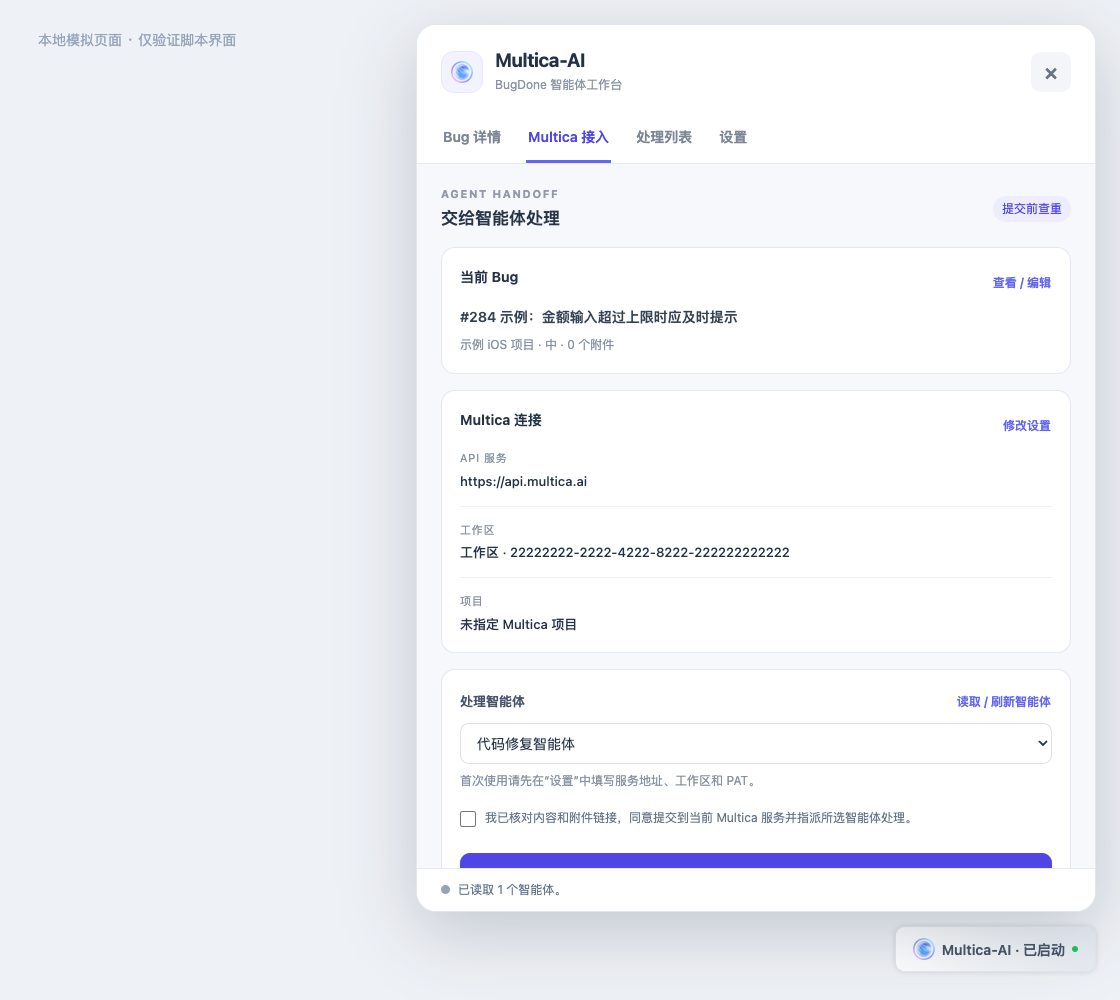
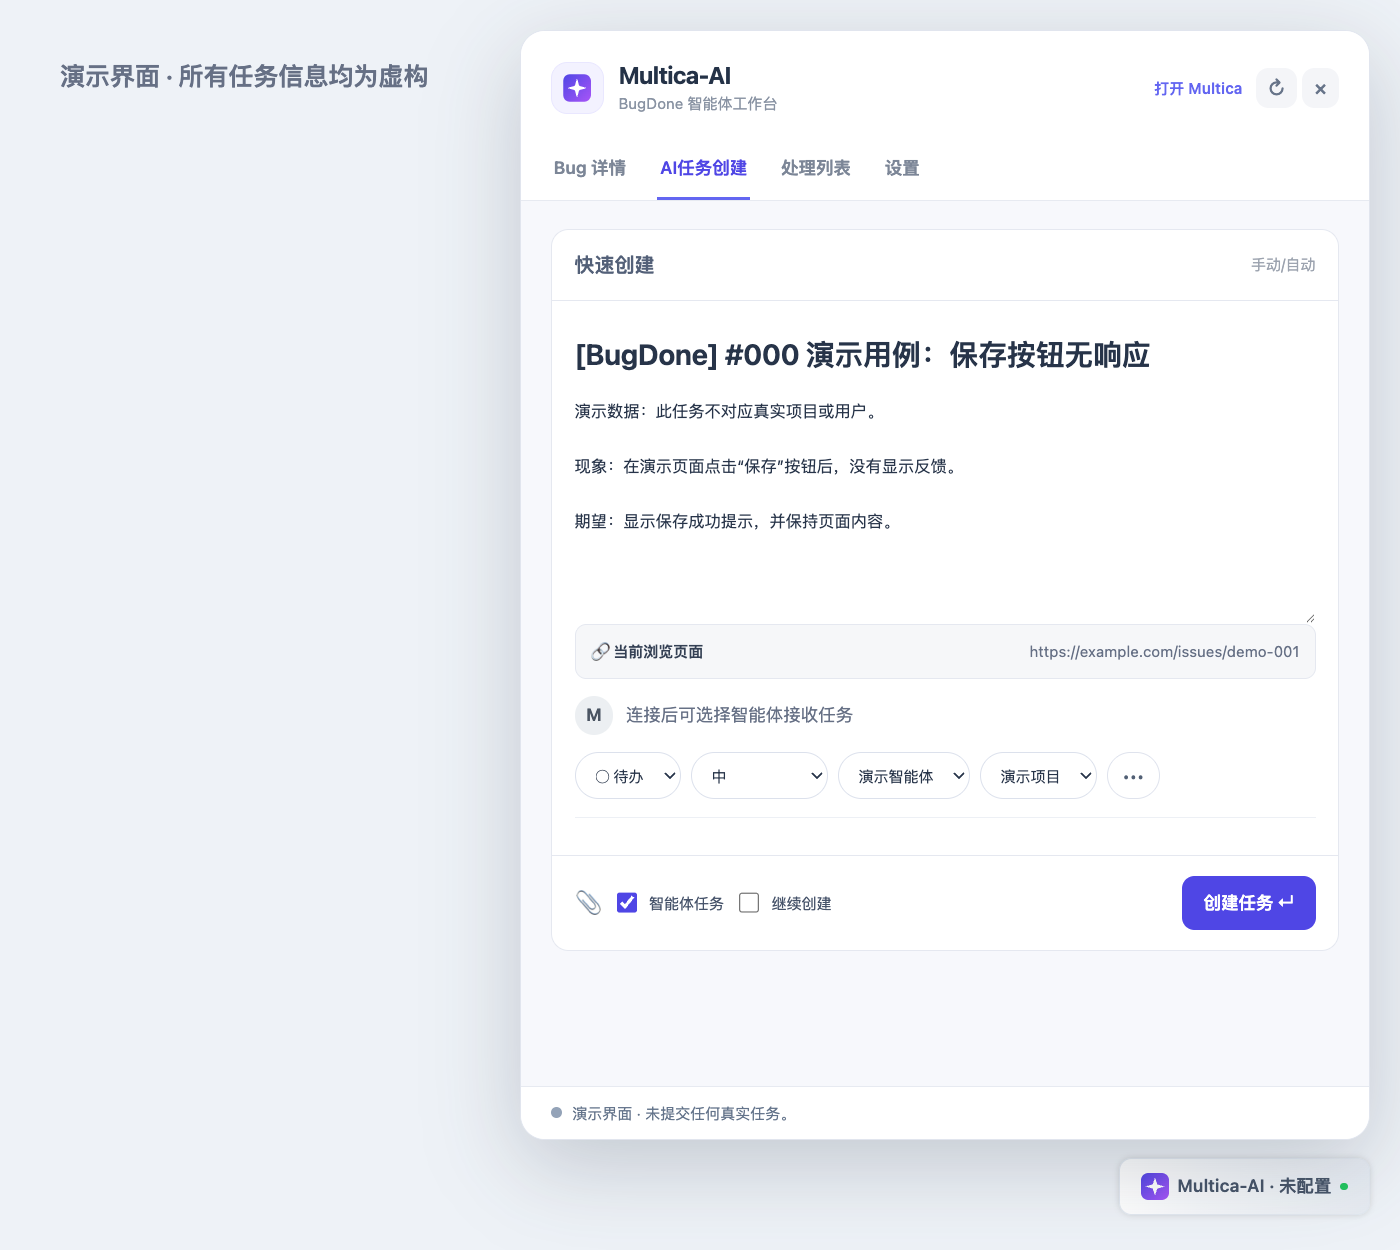
feat: show Multica task status and refresh demo preview

diff --git a/bugdone-multica.user.js b/bugdone-multica.user.js
@@ -1,7 +1,7 @@
 // ==UserScript==
 // @name         BugDone 接入 Multica
 // @namespace    local.bugdone.multica
-// @version      1.0.0
+// @version      1.0.1
 // @description  BugDone桥接Multica智能体
 // @updateURL    https://raw.githubusercontent.com/bosong/bugdone-multica-bridge/main/bugdone-multica.user.js
 // @downloadURL  https://raw.githubusercontent.com/bosong/bugdone-multica-bridge/main/bugdone-multica.user.js
@@ -161,6 +161,38 @@
     }
     throw Error('搜索结果过多，无法确认是否重复；请人工核对');
   }
+  async function lookupSubmittedIssue(api, item) {
+    if (item.issueId) {
+      const r = await api('GET', `/api/issues/${encodeURIComponent(item.issueId)}`);
+      if (r.status === 200) {
+        if (!r.data?.id || r.data.id !== item.issueId) throw Error('任务响应 ID 不匹配');
+        if (item.api || owns(r.data, item.bugId)) return r.data;
+      } else if (r.status !== 404) throw Error(`任务状态查询失败（HTTP ${r.status}）`);
+    }
+    return item.bugId ? findExisting(api, item.bugId) : null;
+  }
+  function issueStatusLabel(status) {
+    const labels = { backlog: '待整理', todo: '待办', in_progress: '进行中', in_review: '待审核', done: '已完成', blocked: '已阻塞' };
+    const value = typeof status === 'string' ? status : status?.name;
+    return labels[value] || value || '未知';
+  }
+  async function loadSubmittedStatuses(items, c, api, report) {
+    let next = 0;
+    const worker = async () => {
+      while (next < items.length) {
+        const item = items[next++];
+        if (item.workspace !== c.workspace || (item.api && item.api !== c.api)) {
+          report(item, { kind: 'unavailable' });
+          continue;
+        }
+        try {
+          const issue = await lookupSubmittedIssue(api, item);
+          report(item, issue ? { kind: 'ready', status: issue.status, issue } : { kind: 'missing' });
+        } catch (error) { report(item, { kind: 'error', error }); }
+      }
+    };
+    await Promise.all(Array.from({ length: Math.min(4, items.length) }, worker));
+  }
   async function submitOnce({ c, bug, body, api, get, set, prepareBody }) {
     const key = cacheKey(c, bug.BugId);
     const record = get(key, null);
@@ -188,7 +220,7 @@
   }
   // 调试桩：仅打印阶段、数量和 HTTP 状态，不打印令牌、请求头或 Bug 正文。
   const DEBUG = true;
-  const SCRIPT_VERSION = '1.0.0';
+  const SCRIPT_VERSION = '1.0.1';
   function debug(stage, data = {}, level = 'info') {
     if (DEBUG) console[level](`[BugDone→Multica] ${stage}`, data);
   }
@@ -225,6 +257,8 @@
   let config = { api: 'https://api.multica.ai', workspace: '', workspaceAlias: '', token: '', agent: '', defaultAgent: '', project: '', projectAlias: '', label: '' };
   config.hideNativeAI = true;
   let submittedBugs = [];
+  const processingStates = new WeakMap(), processingRows = new Map();
+  let processingRefreshPromise = null, processingRefreshAt = 0, processingRefreshContext = '';
   let launchPosition = readValue('launchPosition', null);
   config = { ...config, ...(readValue('config', config) || {}) };
   let connectionPhase = 'idle';
@@ -245,8 +279,10 @@
   function rememberSubmitted(b, issue, c) {
     const item = { bugId: b.BugId, bugCode: b.BugCode, title: b.BugTitle, issueId: issue.id,
       identifier: issue.identifier || '', issueTitle: issue.title || '', submittedAt: new Date().toISOString(),
+      api: c.api, status: issue.status || '',
       workspace: c.workspace, workspaceAlias: c.workspaceAlias || '', project: c.project || '', projectAlias: c.projectAlias || '' };
     submittedBugs = [item, ...submittedBugs.filter(x => x.bugId !== b.BugId || x.workspace !== c.workspace)].slice(0, 100);
+    processingRefreshAt = 0;
     try { writeValue('submittedBugs', submittedBugs); } catch (e) { debug('已处理列表保存失败', { errorType: e.name }, 'warn'); }
     return item;
   }
@@ -675,7 +711,7 @@
       if (selected && focus) tab.focus();
     });
     root.querySelectorAll('[role="tabpanel"]').forEach(panel => { panel.hidden = panel.id !== `view-${name}`; });
-    if (name === 'processing') renderProcessing();
+    if (name === 'processing') { renderProcessing(); void refreshProcessingStatuses(); }
   }
   function showSuccess(text) {
     const box = $('success'); box.querySelector('.success-copy').textContent = text;
@@ -683,18 +719,52 @@
     clearTimeout(showSuccess.timer); showSuccess.timer = setTimeout(() => { box.hidden = true; }, 5500);
   }
   function renderProcessing() {
-    const list = $('processing-list'); if (!list) return; list.replaceChildren();
+    const list = $('processing-list'); if (!list) return; list.replaceChildren(); processingRows.clear();
     $('processing-count').textContent = `共 ${submittedBugs.length} 条，最多保留 100 条`;
     if (!submittedBugs.length) { const empty = document.createElement('p'); empty.className = 'empty'; empty.textContent = '还没有已提交给 Multica-AI 的 Bug。'; list.append(empty); return; }
     for (const item of submittedBugs) {
       const row = document.createElement('article'); row.className = 'processing-item';
       const time = new Date(item.submittedAt).toLocaleString('zh-CN', { hour12: false });
-      row.innerHTML = `<div class="processing-main"><div class="processing-title"></div><div class="processing-meta"></div></div><button class="text-button processing-delete">删除</button>`;
+      row.innerHTML = `<div class="processing-main"><div class="processing-title"></div><div class="processing-meta"></div><div class="processing-status"></div></div><button class="text-button processing-delete">删除</button>`;
       row.querySelector('.processing-title').textContent = `#${item.bugCode || '-'} ${item.title || item.bugId}`;
       row.querySelector('.processing-meta').textContent = `${item.identifier || item.issueId || '任务 ID 未返回'} · ${time}${item.workspaceAlias ? ` · ${item.workspaceAlias}` : ''}`;
+      const status = row.querySelector('.processing-status');
+      const saved = processingStates.get(item);
+      const context = `${$('api').value}:${$('workspace').value}:${connectionCacheTag($('api').value, $('token').value)}`;
+      if (saved?.context === context) setProcessingStatus(status, saved.result);
+      else status.textContent = item.status ? `Multica 状态：${issueStatusLabel(item.status)}（提交时）` : 'Multica 状态：待查询';
+      processingRows.set(item, status);
       row.querySelector('.processing-delete').onclick = () => { forgetSubmitted(item); renderProcessing(); renderBugs(); message('已从本地处理列表删除；不会删除 Multica 中的任务。'); };
       list.append(row);
     }
+  }
+  function setProcessingStatus(el, result) {
+    el.dataset.kind = result.kind;
+    if (result.kind === 'ready') el.textContent = `Multica 状态：${issueStatusLabel(result.status)}`;
+    else if (result.kind === 'missing') el.textContent = 'Multica 状态：未找到对应任务';
+    else if (result.kind === 'unavailable') el.textContent = 'Multica 状态：请切换到提交时的服务和工作区';
+    else el.textContent = `Multica 状态：查询失败（${String(result.error?.message || '请稍后重试').slice(0, 90)}）`;
+  }
+  async function refreshProcessingStatuses(force = false) {
+    if (processingRefreshPromise) return processingRefreshPromise;
+    if (!submittedBugs.length) return;
+    let c;
+    try { c = settings(); }
+    catch (_) { processingRows.forEach(el => { delete el.dataset.kind; el.textContent = 'Multica 状态：请先完成 API 和工作区配置'; }); return; }
+    const context = `${c.api}:${c.workspace}:${connectionCacheTag(c.api, c.token)}`;
+    if (!force && processingRefreshContext === context && Date.now() - processingRefreshAt < 60000) return;
+    $('refresh-processing').disabled = true;
+    processingRows.forEach(el => { delete el.dataset.kind; el.textContent = 'Multica 状态：查询中…'; });
+    processingRefreshPromise = loadSubmittedStatuses([...submittedBugs], c, request(c), (item, result) => {
+      processingStates.set(item, { context, result });
+      const el = processingRows.get(item);
+      if (el && el.isConnected && `${$('api').value}:${$('workspace').value}:${connectionCacheTag($('api').value, $('token').value)}` === context)
+        setProcessingStatus(el, result);
+    }).finally(() => {
+      processingRefreshAt = Date.now(); processingRefreshContext = context;
+      processingRefreshPromise = null; $('refresh-processing').disabled = false;
+    });
+    return processingRefreshPromise;
   }
   function mount() {
     debug('开始挂载按钮');
@@ -712,7 +782,7 @@
       #panel{position:fixed;right:24px;top:24px;bottom:88px;width:min(680px,calc(100vw - 48px));z-index:2147483647;display:flex;flex-direction:column;background:#f7f8fc;border:1px solid #e1e5ee;border-radius:20px;box-shadow:0 20px 70px #1e293b35;overflow:hidden}
       header{display:flex;justify-content:space-between;align-items:center;padding:23px 24px 18px;background:#fff;gap:12px}.brand{display:flex;align-items:center;gap:12px}.brand-icon{width:42px;height:42px;padding:9px;border:1px solid #e9e7ff;border-radius:13px;background:#f3f2ff}.brand h2{font-size:19px;line-height:1.3;margin:0;letter-spacing:-.4px}.brand small{font-size:12px;color:#8993a3}.icon-button{background:#f4f5f8;color:#677489;font-size:22px;line-height:1;padding:8px 12px}.icon-button:hover{background:#e8eaf0}
       .tabs{display:flex;padding:0 24px;gap:23px;background:#fff;border-bottom:1px solid #e7eaf1}.tabs button{border:0;border-bottom:3px solid transparent;border-radius:0;padding:13px 2px;color:#7c8697;background:transparent;white-space:nowrap}.tabs button[aria-selected=true]{color:#4f46e5;border-bottom-color:#6366f1}.tabs button:hover{color:#4f46e5}
-      .content{overflow-y:auto;min-height:0;flex:1;overscroll-behavior:contain;padding:22px 24px}.section-intro{display:flex;align-items:center;justify-content:space-between;gap:10px;margin-bottom:16px}.eyebrow{font-size:11px;letter-spacing:1.6px;color:#9399aa;font-weight:700}.section-intro h3{margin:3px 0 0;font-size:17px;color:#273449}.badge{font-size:12px;padding:4px 9px;border-radius:20px;color:#4f46e5;background:#eeedff;white-space:nowrap}.empty{padding:30px 8px;text-align:center;color:#94a3b8}.processing-item{display:flex;align-items:center;justify-content:space-between;gap:12px;padding:14px 0;border-bottom:1px solid #edf0f5}.processing-item:last-child{border-bottom:0}.processing-main{min-width:0}.processing-title{font-weight:600;white-space:nowrap;overflow:hidden;text-overflow:ellipsis}.processing-meta{margin-top:4px;color:#8791a3;font-size:12px;overflow-wrap:anywhere}.processing-delete{flex:none}.success{position:fixed;left:50%;top:18%;transform:translate(-50%,-50%);z-index:2147483648;display:flex;align-items:center;gap:12px;min-width:290px;max-width:calc(100vw - 40px);padding:15px 18px;background:#fff;border:1px solid #bbf7d0;border-radius:14px;box-shadow:0 18px 55px #14532d30}.success-mark{display:grid;place-items:center;width:32px;height:32px;border-radius:50%;background:#22c55e;color:#fff;font-size:21px;font-weight:800}.success strong{display:block;color:#166534}.success-copy{display:block;margin-top:3px;color:#64748b;font-size:12px;white-space:pre-line}.success-pop{animation:success-pop .35s ease-out}@keyframes success-pop{0%{opacity:0;transform:translate(-50%,-65%) scale(.9)}100%{opacity:1;transform:translate(-50%,-50%) scale(1)}}
+      .content{overflow-y:auto;min-height:0;flex:1;overscroll-behavior:contain;padding:22px 24px}.section-intro{display:flex;align-items:center;justify-content:space-between;gap:10px;margin-bottom:16px}.eyebrow{font-size:11px;letter-spacing:1.6px;color:#9399aa;font-weight:700}.section-intro h3{margin:3px 0 0;font-size:17px;color:#273449}.badge{font-size:12px;padding:4px 9px;border-radius:20px;color:#4f46e5;background:#eeedff;white-space:nowrap}.empty{padding:30px 8px;text-align:center;color:#94a3b8}.processing-item{display:flex;align-items:center;justify-content:space-between;gap:12px;padding:14px 0;border-bottom:1px solid #edf0f5}.processing-item:last-child{border-bottom:0}.processing-main{min-width:0;flex:1}.processing-title{font-weight:600;white-space:nowrap;overflow:hidden;text-overflow:ellipsis}.processing-meta{margin-top:4px;color:#8791a3;font-size:12px;overflow-wrap:anywhere}.processing-status{margin-top:9px;padding-top:7px;border-top:1px solid #edf0f5;font-size:12px;color:#64748b}.processing-status[data-kind=ready]{color:#4f46e5}.processing-status[data-kind=error]{color:#b45309}.processing-delete{flex:none}.processing-actions{display:flex;align-items:center;gap:12px}.success{position:fixed;left:50%;top:18%;transform:translate(-50%,-50%);z-index:2147483648;display:flex;align-items:center;gap:12px;min-width:290px;max-width:calc(100vw - 40px);padding:15px 18px;background:#fff;border:1px solid #bbf7d0;border-radius:14px;box-shadow:0 18px 55px #14532d30}.success-mark{display:grid;place-items:center;width:32px;height:32px;border-radius:50%;background:#22c55e;color:#fff;font-size:21px;font-weight:800}.success strong{display:block;color:#166534}.success-copy{display:block;margin-top:3px;color:#64748b;font-size:12px;white-space:pre-line}.success-pop{animation:success-pop .35s ease-out}@keyframes success-pop{0%{opacity:0;transform:translate(-50%,-65%) scale(.9)}100%{opacity:1;transform:translate(-50%,-50%) scale(1)}}
       .card{padding:18px;border:1px solid #e5e8f0;background:#fff;border-radius:14px;margin-bottom:16px}.card-title{font-weight:650;margin:0 0 12px}.field{margin-top:16px}.field:first-child{margin-top:0}label{display:block;font-size:13px;font-weight:600;color:#46536a;margin:0 0 7px}input,select,textarea{width:100%;padding:10px 12px;border:1px solid #dce1ec;border-radius:9px;background:#fff;color:#273449;outline:none}input:focus,select:focus,textarea:focus{border-color:#818cf8;box-shadow:0 0 0 3px #6366f112}textarea{resize:vertical;line-height:1.7;font-size:13px}input[readonly]{background:#f8f9fc;color:#64748b;font-size:12px}.hint,small{font-size:12px;line-height:1.7;color:#8791a3}.hint{margin:7px 0 0}.row{display:flex;gap:10px;margin-top:16px;align-items:center;flex-wrap:wrap}.row.end{justify-content:flex-end}.secondary{background:#fff;border-color:#dfe3ed;color:#526075}.secondary:hover{background:#f1f3f9}.text-button{padding:4px 0;background:transparent;color:#6366f1;font-size:12px}.text-button:hover{background:transparent;color:#4338ca}.label-row{display:flex;align-items:center;justify-content:space-between;gap:8px;margin-bottom:7px}.label-row label{margin:0}
       .header-actions{display:flex;align-items:center;gap:8px}.header-actions .text-button{white-space:nowrap}.header-actions .icon-button{font-size:17px}.task-title{font-size:20px;font-weight:650;border:0;padding:8px 0}.task-description{min-height:250px;border:0;padding:8px 0;resize:vertical}.task-grid{display:grid;grid-template-columns:repeat(2,minmax(0,1fr));gap:12px}.task-grid .field{margin:0}.settings-group{border-top:1px solid #edf0f5;padding-top:18px;margin-top:18px}.settings-group:first-child{border-top:0;padding-top:0;margin-top:0}.settings-group h4{margin:0 0 12px;font-size:14px}.inline-control{display:flex;gap:8px}.inline-control>*:first-child{flex:1;min-width:0}.inline-control button{white-space:nowrap}.link-note{padding:10px 12px;border:1px solid #e5e8f0;border-radius:9px;background:#f8f9fc;font-size:12px;color:#64748b;overflow-wrap:anywhere}@media(max-width:520px){.task-grid{grid-template-columns:1fr}.header-actions .text-button{font-size:11px}}
       .quick-card{padding:0;overflow:hidden}.quick-head,.quick-foot{display:flex;align-items:center;justify-content:space-between;padding:16px 18px;border-bottom:1px solid #e5e8f0}.quick-head strong{font-size:16px;color:#536078}.quick-head small{color:#9ca3af}.quick-body{padding:18px}.quick-body .task-title{font-size:23px;width:100%;border:0;box-shadow:none}.quick-body .task-description{min-height:205px;width:100%;border:0;box-shadow:none}.quick-source{display:flex;justify-content:space-between;gap:10px;padding:12px;border:1px solid #e5e8f0;background:#f6f7f9;border-radius:9px;font-size:12px;color:#667085}.quick-source strong{color:#344054}.quick-assignee{display:flex;align-items:center;gap:10px;margin:14px 0;color:#667085}.quick-avatar{display:grid;place-items:center;width:31px;height:31px;border-radius:50%;background:#eceff2;color:#4b5563;font-weight:700}.quick-options{display:flex;flex-wrap:wrap;gap:8px}.quick-options select,.quick-options .more-button{width:auto;max-width:230px;border-radius:24px;padding:9px 12px;font-size:12px}.quick-dates{margin-top:14px;border-top:1px solid #edf0f5;padding-top:12px}.quick-dates summary{font-size:12px;color:#667085;cursor:pointer}.quick-foot{border-top:1px solid #e5e8f0;border-bottom:0;gap:8px;flex-wrap:wrap}.quick-foot label{display:flex;align-items:center;gap:6px;margin:0;font-weight:400;font-size:12px}.quick-foot input{width:17px;height:17px;accent-color:#4f46e5}.quick-foot .submit{width:auto;margin:0}.quick-foot .text-button{font-size:20px}.custom-server-panel{margin-top:10px;padding:12px;border:1px solid #e5e8f0;border-radius:9px;background:#f8f9fc}
@@ -756,8 +826,8 @@
             <p class="version">BugDone → Multica · v${SCRIPT_VERSION}</p>
           </section>
           <section id="view-processing" role="tabpanel" aria-labelledby="tab-processing" hidden>
-            <div class="section-intro"><div><div class="eyebrow">LOCAL HISTORY</div><h3>处理列表</h3></div><span id="processing-count" class="badge">共 0 条</span></div>
-            <div class="card"><p class="hint">这里记录本浏览器中已提交给 Multica-AI 的 Bug，仅保存在当前可用的脚本存储。删除只移除本地记录，不会删除 Multica 任务。</p><div id="processing-list"></div></div>
+            <div class="section-intro"><div><div class="eyebrow">LOCAL HISTORY</div><h3>处理列表</h3></div><div class="processing-actions"><button id="refresh-processing" class="text-button" type="button">刷新状态</button><span id="processing-count" class="badge">共 0 条</span></div></div>
+            <div class="card"><p class="hint">这里记录本浏览器中已提交给 Multica-AI 的 Bug。打开本栏会查询任务状态；删除只移除本地记录，不会删除 Multica 任务。</p><div id="processing-list"></div></div>
           </section>
         </div>
         <footer><p id="message" role="status" aria-live="polite">尚未提交 · 请先核对 Bug 详情。</p></footer>
@@ -819,6 +889,7 @@
       }
     });
     $('task-attachments').onclick = () => switchTab('bug', true);
+    $('refresh-processing').onclick = () => { void refreshProcessingStatuses(true); };
     $('agent-task').onchange = () => { $('submit').disabled = !$('agent-task').checked; if (!$('agent-task').checked) message('当前桥接只支持智能体任务。'); };
     $('open-multica').onclick = () => {
       // 桌面端注册 multica://；网页无法直接查询安装状态，用失焦和原生回执判断是否需要回退。

diff --git a/README.md b/README.md
@@ -4,11 +4,11 @@
 
 ![BugDone 接入 Multica 的界面预览](./assets/ui-preview.png)
 
-*界面预览使用本地模拟数据，展示的是旧版布局；当前界面以脚本为准。*
+*界面预览由当前脚本生成。任务标题、描述、项目、智能体和来源链接均为虚构演示数据。*
 
 ## 安装
 
-1. 从 [脚本安装地址](https://raw.githubusercontent.com/bosong/bugdone-multica-bridge/main/bugdone-multica.user.js) 安装 v1.0.0 到 Tampermonkey，打开并登录 BugDone。若已安装的旧版不含 `@updateURL`，需手动安装一次；之后可检查更新。
+1. 从 [脚本安装地址](https://raw.githubusercontent.com/bosong/bugdone-multica-bridge/main/bugdone-multica.user.js) 安装 v1.0.1 到 Tampermonkey，打开并登录 BugDone。若已安装的旧版不含 `@updateURL`，需手动安装一次；之后可检查更新。
 2. 打开某个 Bug 详情，点击右下角 **Multica-AI** 入口按钮；按钮文字会显示当前连接状态。
 3. 在设置的 API 服务下拉框中选择官方服务，或选择“添加自建服务器”后填写地址；再填写 API Token。脚本会自动读取并缓存工作区、项目、智能体和标签。以后启动直接恢复缓存，只有缓存缺失、Token 变化或手动刷新时才请求这些列表。
 4. 在 Bug 详情核对捕获内容，点击 **下一步：AI任务创建**，编辑任务标题、描述、状态、优先级、智能体、项目、标签或有效日期，然后创建任务。第一栏生成的标题以 `[BugDone] #编号` 开头，并在末尾带有用于查重的 Bug ID 标记。第二栏显示的标题和描述会原样提交；若删掉标题中的查重标记，脚本会阻止提交并提示重新生成。
@@ -18,6 +18,8 @@
 入口按钮按最近一次 API 验证结果显示 **未配置、待连接、连接中、已连接、连接失败**。已保存选项在启动时仍从本地恢复，同时用 `GET /api/me` 验证令牌；不会因此重新拉取项目、智能体和标签列表。
 
 脚本会先查找同一 Bug 的已有任务，避免重复创建。新任务提交前，脚本会从 `img.bugdone.cn` 获取截图，上传到 Multica，再通过 `attachment_ids` 将截图关联到任务。图片读取或上传失败时会停止创建并显示原因。非图片附件目前只作为原始链接写入任务描述。
+
+“处理列表”会在打开时查询 Multica 任务的最新状态，并在每条记录底部显示。已有任务 ID 时直接查询；旧记录缺少 ID 时通过 BugDone 查重标记搜索。列表提供“刷新状态”按钮；不同 API 服务或工作区的记录需要切换回提交时的配置才能查询。
 
 ## Mac App WebView
 
